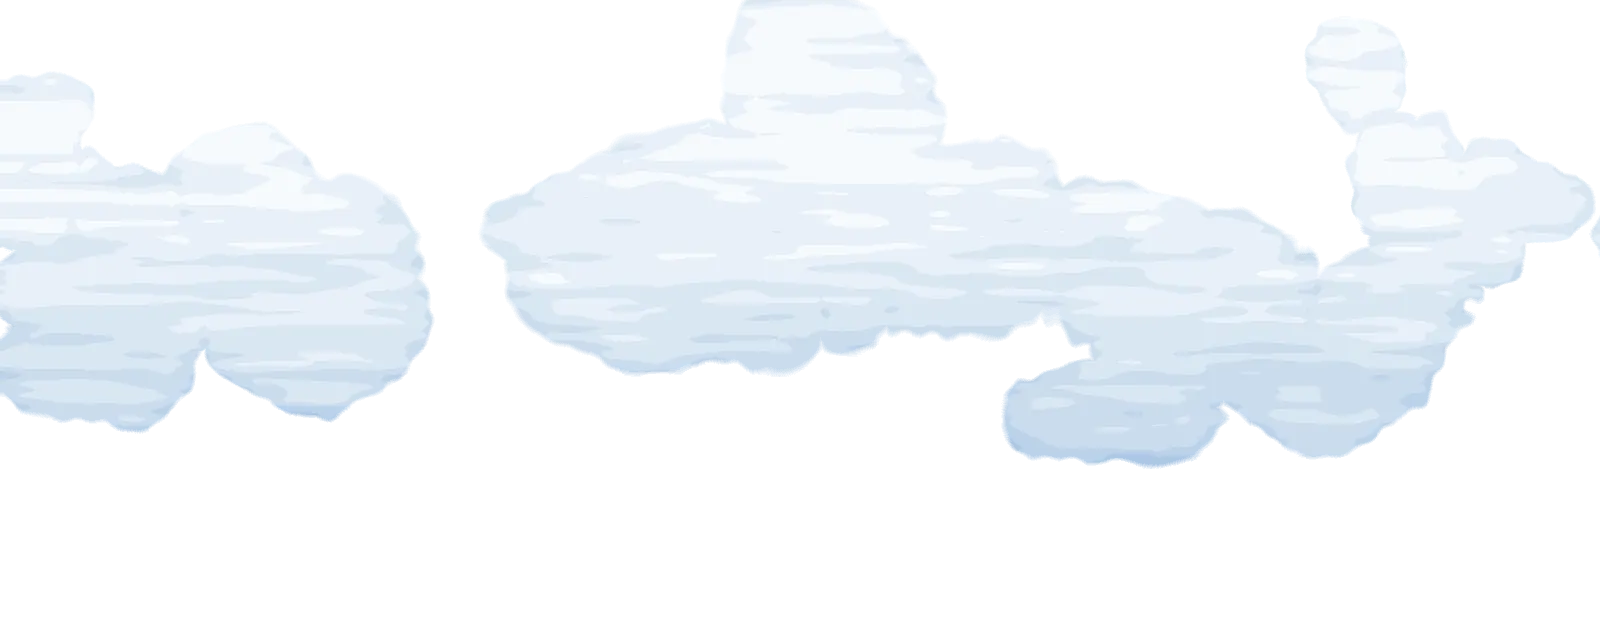
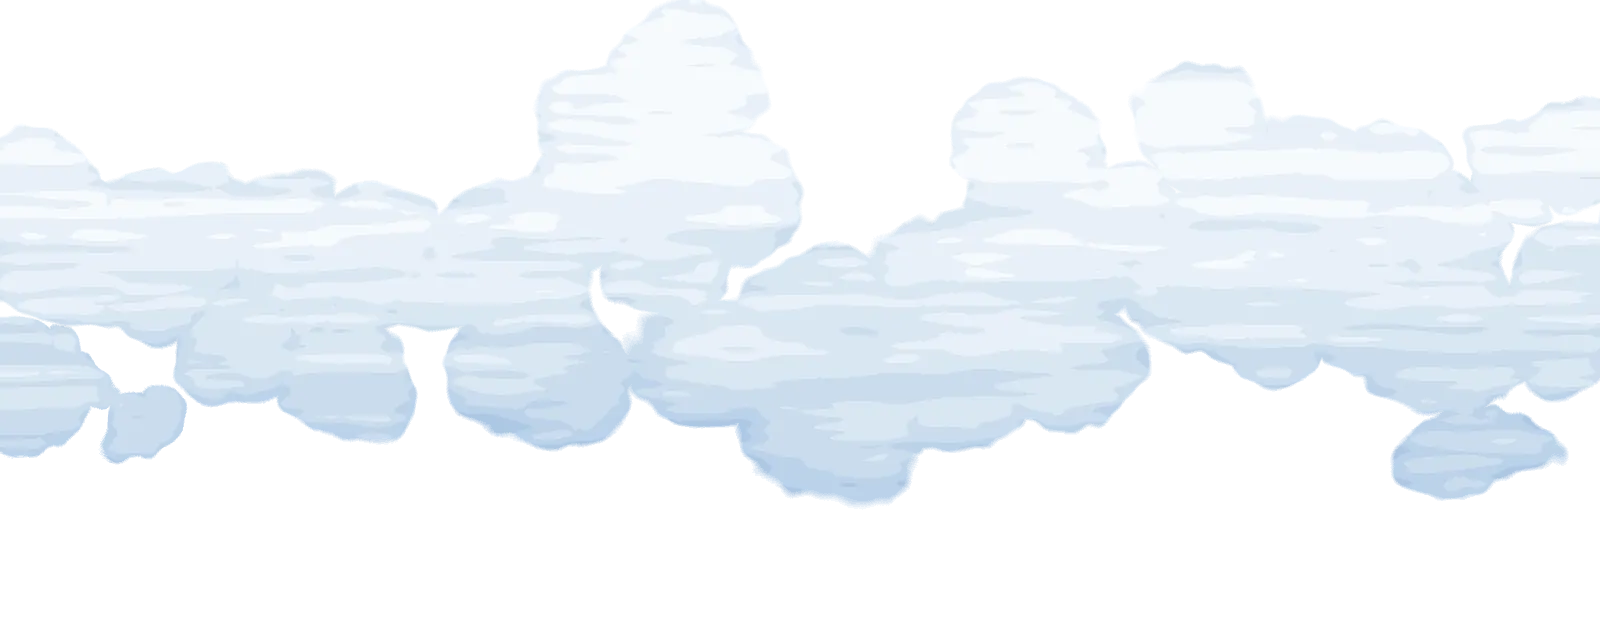
Add denser floating clouds and a foamy mist layer

diff --git a/src/app/AppShell.tsx b/src/app/AppShell.tsx
@@ -1,0 +1,74 @@
+import { Link, NavLink, Outlet } from 'react-router-dom'
+import { useAuth } from '@/features/auth/AuthProvider'
+import { isSupabaseConfigured } from '@/lib/supabase'
+import cloudsUrl from '@/assets/clouds.webp'
+import mistUrl from '@/assets/mist.webp'
+
+const TABS = [
+  { to: '/quests', label: 'Quests' },
+  { to: '/camera', label: 'Camera' },
+  { to: '/vault', label: 'Vault' },
+  { to: '/map', label: 'Map' },
+]
+
+export function AppShell() {
+  const { user } = useAuth()
+  const topLink =
+    !user && isSupabaseConfigured
+      ? { to: '/sign-in', label: 'Sign in' }
+      : { to: '/profile', label: 'Profile' }
+
+  return (
+    <div className="shell">
+      <div className="sky" aria-hidden="true">
+        <div className="sky__track">
+          <img
+            className="sky__clouds"
+            src={cloudsUrl}
+            alt=""
+            width={1600}
+            height={640}
+            decoding="async"
+          />
+        </div>
+        <div className="sky__track sky__track--mist">
+          <img
+            className="sky__mist"
+            src={mistUrl}
+            alt=""
+            width={1600}
+            height={480}
+            decoding="async"
+          />
+        </div>
+      </div>
+
+      <header className="topbar">
+        <Link to="/" className="brand">
+          Quest Verse
+        </Link>
+        <Link to={topLink.to} className="topbar__link">
+          {topLink.label}
+        </Link>
+      </header>
+
+      {!isSupabaseConfigured && (
+        <p className="notice" role="status">
+          Accounts are off while we test. Everything here is open.
+        </p>
+      )}
+
+      <main className="page">
+        <Outlet />
+      </main>
+
+      <nav className="tabbar" aria-label="Main">
+        {TABS.map((tab) => (
+          <NavLink key={tab.to} to={tab.to}>
+            {tab.label}
+          </NavLink>
+        ))}
+      </nav>
+    </div>
+  )
+}

diff --git a/src/styles/global.css b/src/styles/global.css
@@ -99,15 +99,38 @@ a {
 
 @keyframes drift {
   from {
-    transform: translateX(-60px);
+    transform: translate(-60px, 0);
   }
   to {
-    transform: translateX(60px);
+    transform: translate(60px, -10px);
+  }
+}
+
+.sky__track--mist {
+  top: 70px;
+}
+
+.sky__mist {
+  display: block;
+  width: 1300px;
+  max-width: none;
+  height: auto;
+  opacity: 0.9;
+  animation: drift-mist 70s ease-in-out infinite alternate;
+}
+
+@keyframes drift-mist {
+  from {
+    transform: translate(90px, 4px);
+  }
+  to {
+    transform: translate(-90px, -8px);
   }
 }
 
 @media (prefers-reduced-motion: reduce) {
-  .sky__clouds {
+  .sky__clouds,
+  .sky__mist {
     animation: none;
   }
 }
